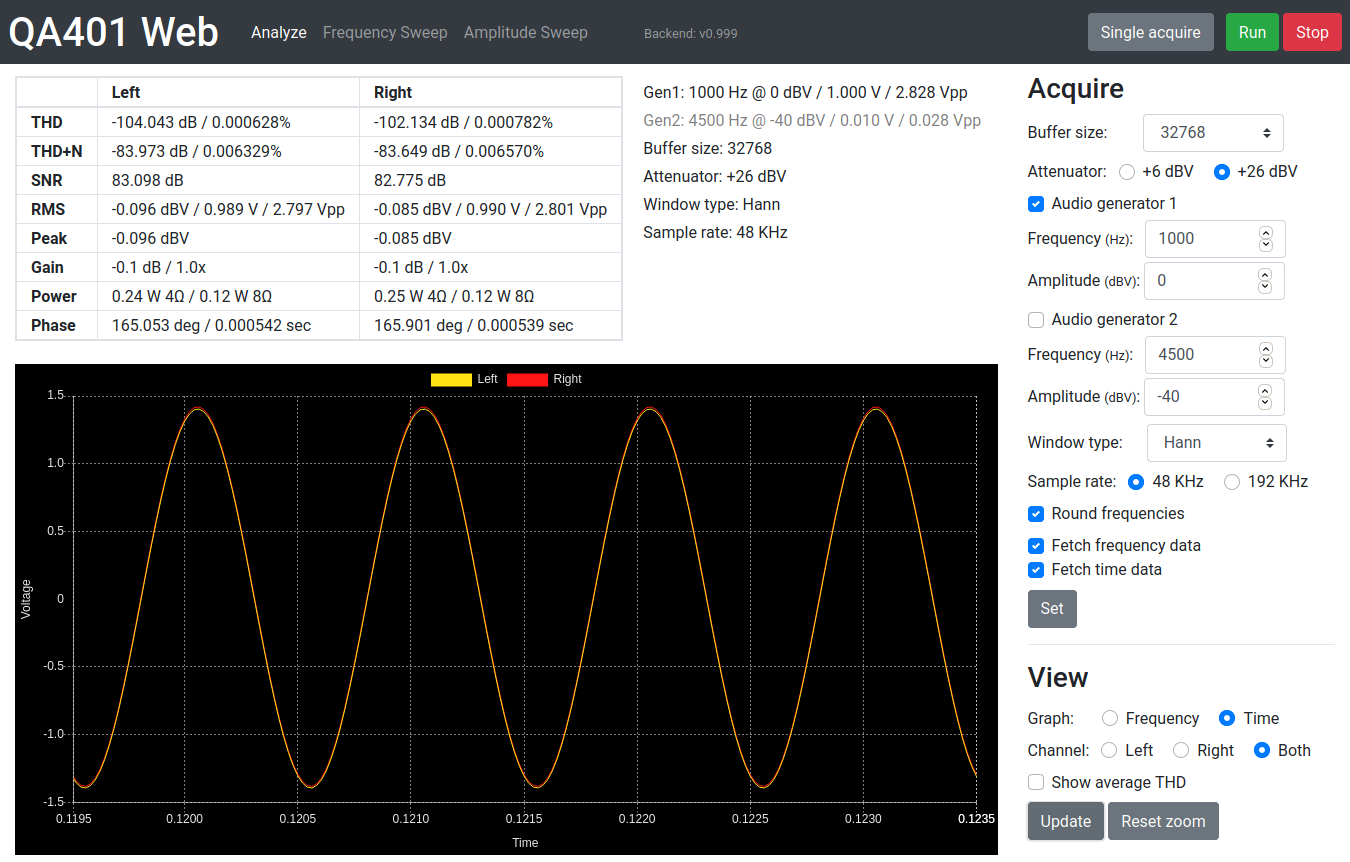
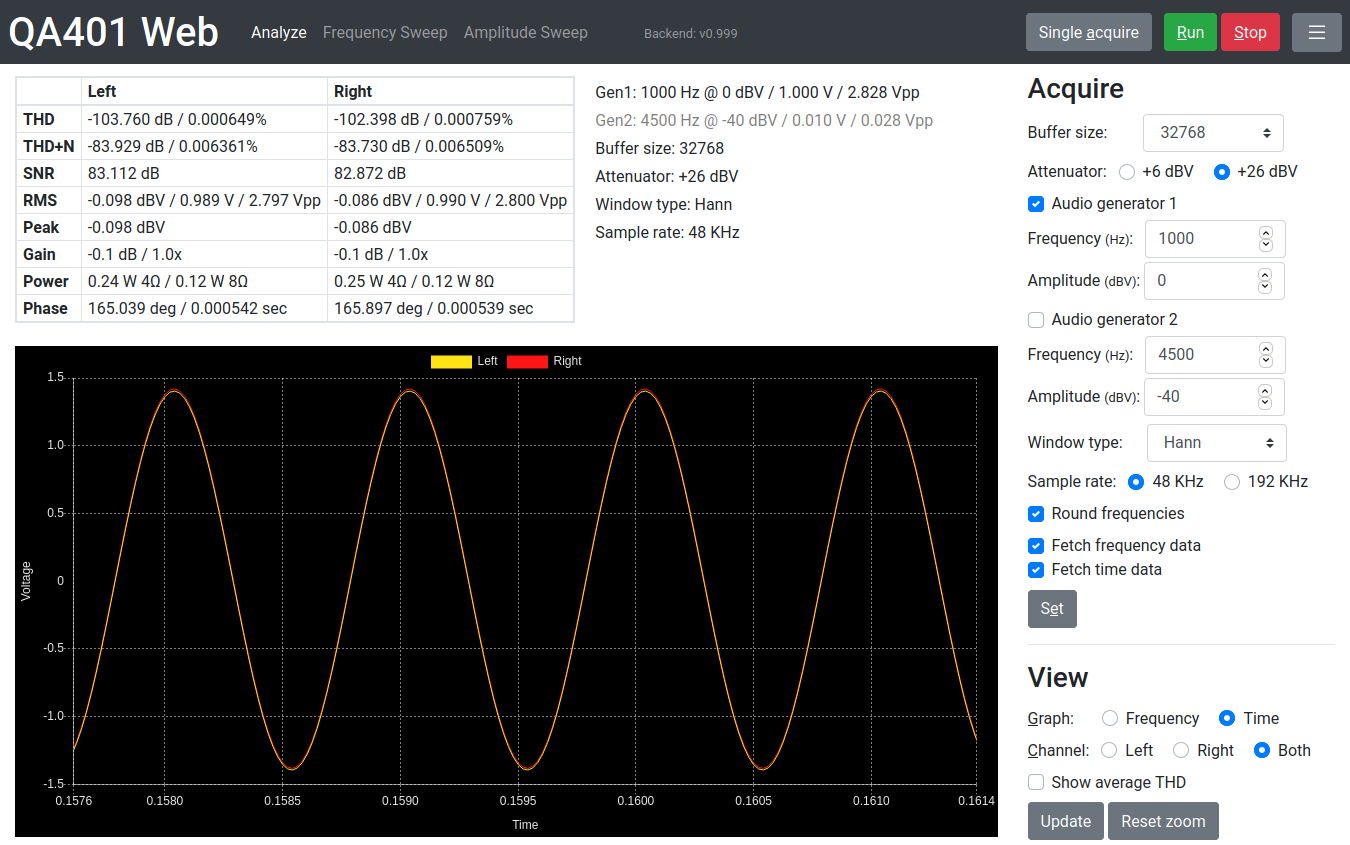
Update screenshots and readme with latest changes

diff --git a/README.md b/README.md
@@ -44,6 +44,19 @@ Run amplitude sweeps and record data at defined steps along the way.
 * Switch between the different graphs after sweep is finished to view recorded results.
 
 
+### Keyboard shortcuts
+
+* Shift + M - Show/hide the settings menu on the right
+* Shift + A - Do a single acquisition (only Analyze page)
+* Shift + R - Run continuous acquisition or sweep
+* Shift + S - Stop continuous acquisition or sweep
+* Shift + E - Set current acquisition settings
+* Shift + G - Cycle through the graph choices
+* Shift + C - Cycle through the channel choices
+
+Tip: hide the menu when taking screenshots and then use the keyboard shortcuts.
+
+
 ## How to use
 
 1. [Download](https://github.com/QuantAsylum/QA401H/releases) and start QA401H v0.998 or newer.
